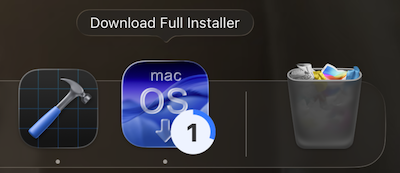
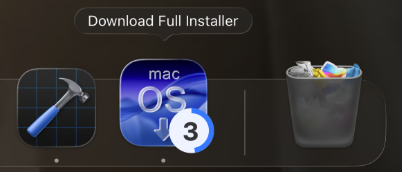
Update DockProgress docs, images, and README

diff --git a/DOCS/DockProgess.md b/DOCS/DockProgess.md
@@ -1,6 +1,6 @@
 # DockProgress Package
 
-This document describes the integration of the [DockProgress](https://github.com/sindresorhus/DockProgress) package by Sindre Sorhus into Download Full Installer. The package adds a progress bar overlay to the application's dock tile icon during PKG downloads.
+This document describes the integration of the `DockProgress` package into Download Full Installer. The package adds a progress bar overlay to the application's dock tile icon during PKG downloads.
 
 ## Package Details
 
@@ -9,7 +9,9 @@ This document describes the integration of the [DockProgress](https://github.com
 - **License**: MIT
 - **macOS Requirement**: 10.14+
 
-The package is added through Xcode's Swift Package Manager.
+### Install
+
+Add `https://github.com/sindresorhus/DockProgress` in the “Swift Package Manager” tab in Xcode.
 
 ### Import
 
@@ -17,16 +19,20 @@ The package is added through Xcode's Swift Package Manager.
 import DockProgress
 ```
 
-`import` is added to `FetchInstallerPkg/DownloadManager.swift`.
+`import` is added to `DownloadManager.swift` and `MultiDownloadManager.swift`.
 
 ## Implementation
 
 ### Style Configuration
 
-DockProgress supports multiple built-in styles. This project uses the **bar** style which displays a horizontal progress bar at the bottom of the dock icon:
+DockProgress supports multiple built-in styles.
 
 ```swift
 DockProgress.style = .bar
+DockProgress.style = .squircle(color: .white.opacity(0.5))
+DockProgress.style = .circle(radius: 55, color: .blue)
+DockProgress.style = .badge(color: .blue, badgeValue: { getDownloadCount() })
+DockProgress.style = .pie(color: .blue)
 ```
 
 ### Progress Updates

diff --git a/README.md b/README.md
@@ -6,7 +6,7 @@
 
 As of June 2025, [DownloadFullInstaller](https://github.com/scriptingosx/DownloadFullInstaller) by <em>scriptingosx</em> has been archived by the developer. For over three years, my DownloadFullInstaller repo was a fork of the source. However, after it was archived, I created a new repo. This new repo is a standalone (<em>not forked</em>) version. I'll keep this project active and up to date as long as it is useful to other users.
 
-<img src="Images/Main-window.png" width="700px">
+<img src="Images/Main-window1.png" width="700px">
 
 ### Download Full Installer from macOS 13 up to 26 
 
@@ -25,7 +25,10 @@ Download Full Installer runs on macOS 13 Ventura through macOS 26 Tahoe.
 - Updated translations
 - Initial support for Liquid Glass with backward compatibility
 - Added download resume functionality that automatically handles network interruptions
-- Added progress bar overlaying to the application's dock tile icon during PKG downloads.
+- Added progress bar overlaying to the application's dock tile icon during PKG downloads
+- Added support for up to 3 simultaneous downloads
+
+**Note**: Not all features are available in the macOS 11+ version
 
 #### Create Installer App Feature
 
